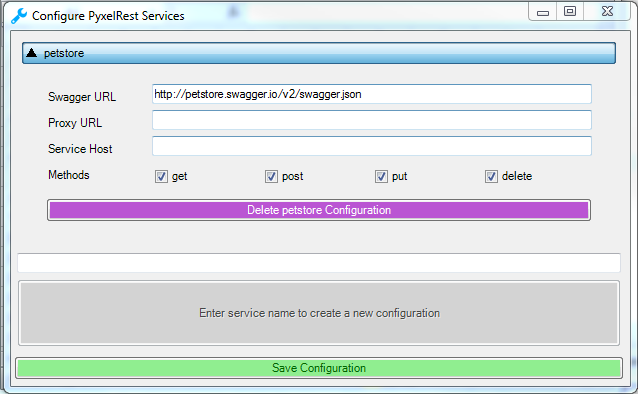
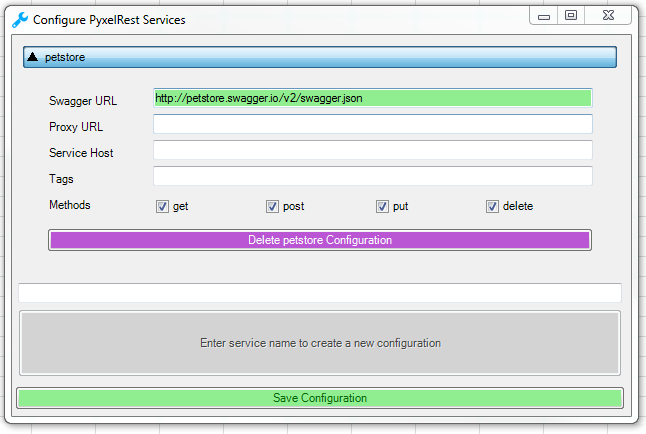
Allow to specify tags in Excel Addin configurator

Changed region(s): [[0.0, 0.0, 1.0, 1.0], [0.0596, 0.2132, 0.9232, 0.5787], [0.2978, 0.7614, 0.685, 0.8223]]

diff --git a/addin/AutoLoadPyxelRestAddIn/Service.cs b/addin/AutoLoadPyxelRestAddIn/Service.cs
@@ -13,6 +13,7 @@ namespace AutoLoadPyxelRestAddIn
         private static readonly string PROXY_URL_PROPERTY = "proxy_url";
         private static readonly string SERVICE_HOST_PROPERTY = "service_host";
         private static readonly string METHODS_PROPERTY = "methods";
+        private static readonly string TAGS_PROPERTY = "tags";
 
         private static readonly string GET = "get";
         private static readonly string POST = "post";
@@ -27,6 +28,7 @@ namespace AutoLoadPyxelRestAddIn
         public bool Post;
         public bool Put;
         public bool Delete;
+        public string Tags;
 
         public Service(string name)
         {
@@ -52,6 +54,7 @@ namespace AutoLoadPyxelRestAddIn
             Post = Array.Exists(methods, s => POST.Equals(s));
             Put = Array.Exists(methods, s => PUT.Equals(s));
             Delete = Array.Exists(methods, s => DELETE.Equals(s));
+            Tags = serviceConfig.ContainsKey(TAGS_PROPERTY) ? serviceConfig[TAGS_PROPERTY] : string.Empty;
         }
 
         internal SectionData ToConfig()
@@ -60,25 +63,32 @@ namespace AutoLoadPyxelRestAddIn
             section.Keys = new KeyDataCollection();
 
             KeyData swaggerUrl = new KeyData(SWAGGER_URL_PROPERTY);
-            swaggerUrl.Value = this.SwaggerUrl;
+            swaggerUrl.Value = SwaggerUrl;
             section.Keys.SetKeyData(swaggerUrl);
 
             if(!string.IsNullOrEmpty(ProxyUrl)) {
                 KeyData proxyUrl = new KeyData(PROXY_URL_PROPERTY);
-                proxyUrl.Value = this.ProxyUrl;
+                proxyUrl.Value = ProxyUrl;
                 section.Keys.SetKeyData(proxyUrl);
             }
 
             if (!string.IsNullOrEmpty(ServiceHost))
             {
                 KeyData serviceHost = new KeyData(SERVICE_HOST_PROPERTY);
-                serviceHost.Value = this.ServiceHost;
+                serviceHost.Value = ServiceHost;
                 section.Keys.SetKeyData(serviceHost);
             }
 
             KeyData methods = new KeyData(METHODS_PROPERTY);
             methods.Value = GetMethods();
             section.Keys.SetKeyData(methods);
+
+            if (!string.IsNullOrEmpty(Tags))
+            {
+                KeyData tags = new KeyData(TAGS_PROPERTY);
+                tags.Value = Tags;
+                section.Keys.SetKeyData(tags);
+            }
 
             return section;
         }
@@ -92,6 +102,7 @@ namespace AutoLoadPyxelRestAddIn
             Post = true;
             Put = true;
             Delete = true;
+            Tags = "";
         }
 
         private string GetMethods()

diff --git a/addin/AutoLoadPyxelRestAddIn/ServicePanel.cs b/addin/AutoLoadPyxelRestAddIn/ServicePanel.cs
@@ -19,6 +19,7 @@ namespace AutoLoadPyxelRestAddIn
         private CheckBox put;
         private CheckBox delete;
         private CheckBox checkbox;
+        private TextBox tagsTextBox;
 
         private readonly ServiceConfigurationForm configurationForm;
         private long? swaggerUrlModificationTicks;
@@ -91,8 +92,17 @@ namespace AutoLoadPyxelRestAddIn
             servicePanel.Controls.Add(serviceHostTextBox, 1, 2);
             #endregion
 
+            #region Tags
+            servicePanel.Controls.Add(new Label { Text = "Tags", TextAlign = ContentAlignment.BottomLeft }, 0, 3);
+            tagsTextBox = new TextBox() { Text = service.Tags };
+            tagsTextBox.Dock = DockStyle.Fill;
+            tagsTextBox.AutoSize = true;
+            tagsTextBox.TextChanged += TagsTextBox_TextChanged;
+            servicePanel.Controls.Add(tagsTextBox, 1, 3);
+            #endregion
+
             #region Methods
-            servicePanel.Controls.Add(new Label { Text = "Methods", TextAlign = ContentAlignment.BottomLeft }, 0, 3);
+            servicePanel.Controls.Add(new Label { Text = "Methods", TextAlign = ContentAlignment.BottomLeft }, 0, 4);
             TableLayoutPanel methodsPanel = new TableLayoutPanel();
             methodsPanel.Dock = DockStyle.Fill;
             methodsPanel.AutoSize = true;
@@ -108,7 +118,7 @@ namespace AutoLoadPyxelRestAddIn
             delete = new CheckBox() { Text = "delete", Checked = service.Delete };
             delete.CheckedChanged += Delete_CheckedChanged;
             methodsPanel.Controls.Add(delete, 3, 0);
-            servicePanel.Controls.Add(methodsPanel, 1, 3);
+            servicePanel.Controls.Add(methodsPanel, 1, 4);
             #endregion
 
             #region Delete
@@ -123,6 +133,11 @@ namespace AutoLoadPyxelRestAddIn
             #endregion
 
             return servicePanel;
+        }
+
+        private void TagsTextBox_TextChanged(object sender, EventArgs e)
+        {
+            service.Tags = tagsTextBox.Text;
         }
 
         private void ServiceHostTextBox_TextChanged(object sender, EventArgs e)

diff --git a/README.rst b/README.rst
@@ -89,19 +89,19 @@ Each UDF will be prefixed by the section name (only [a-zA-Z0-9_] characters will
 
 The following options are available for each section:
 
-+--------------+-----------------------------------------------------------------------------------+-----------+------------------------+
-|              | Description                                                                       | Mandatory | Possible values        |
-+==============+===================================================================================+===========+========================+
-| swagger_url  | Complete URL to the Swagger definition.                                           | Mandatory |                        |
-+--------------+-----------------------------------------------------------------------------------+-----------+------------------------+
-| proxy_url    | Proxy that should be used to reach service.                                       | Optional  |                        |
-+--------------+-----------------------------------------------------------------------------------+-----------+------------------------+
-| service_host | Service host in case your service is behind a reverse proxy.                      | Optional  |                        |
-+--------------+-----------------------------------------------------------------------------------+-----------+------------------------+
-| methods      | List of services methods to be exposed as UDFs.                                   | Optional  | get, post, put, delete |
-+--------------+-----------------------------------------------------------------------------------+-----------+------------------------+
-| tags         | Swagger tags that should be retrieved. If not specified, no filtering is applied. | Optional  |                        |
-+--------------+-----------------------------------------------------------------------------------+-----------+------------------------+
++--------------+-----------------------------------------------------------------------------------+-----------+----------------------------+
+|              | Description                                                                       | Mandatory | Possible values            |
++==============+===================================================================================+===========+============================+
+| swagger_url  | Complete URL to the Swagger definition.                                           | Mandatory |                            |
++--------------+-----------------------------------------------------------------------------------+-----------+----------------------------+
+| proxy_url    | Proxy that should be used to reach service.                                       | Optional  |                            |
++--------------+-----------------------------------------------------------------------------------+-----------+----------------------------+
+| service_host | Service host in case your service is behind a reverse proxy.                      | Optional  |                            |
++--------------+-----------------------------------------------------------------------------------+-----------+----------------------------+
+| methods      | List of services methods to be exposed as UDFs.                                   | Optional  | get, post, put, delete     |
++--------------+-----------------------------------------------------------------------------------+-----------+----------------------------+
+| tags         | Swagger tags that should be retrieved. If not specified, no filtering is applied. | Optional  | any value separated by ',' |
++--------------+-----------------------------------------------------------------------------------+-----------+----------------------------+
 
 Logging Configuration
 ---------------------

diff --git a/README.md b/README.md
@@ -111,7 +111,7 @@ The following options are available for each section:
         <td>tags</td>
         <td>Swagger tags that should be retrieved. If not specified, no filtering is applied.</td>
         <td>Optional</td>
-        <td></td>
+        <td>any value separated by ','</td>
     </tr>
 </table>
 
